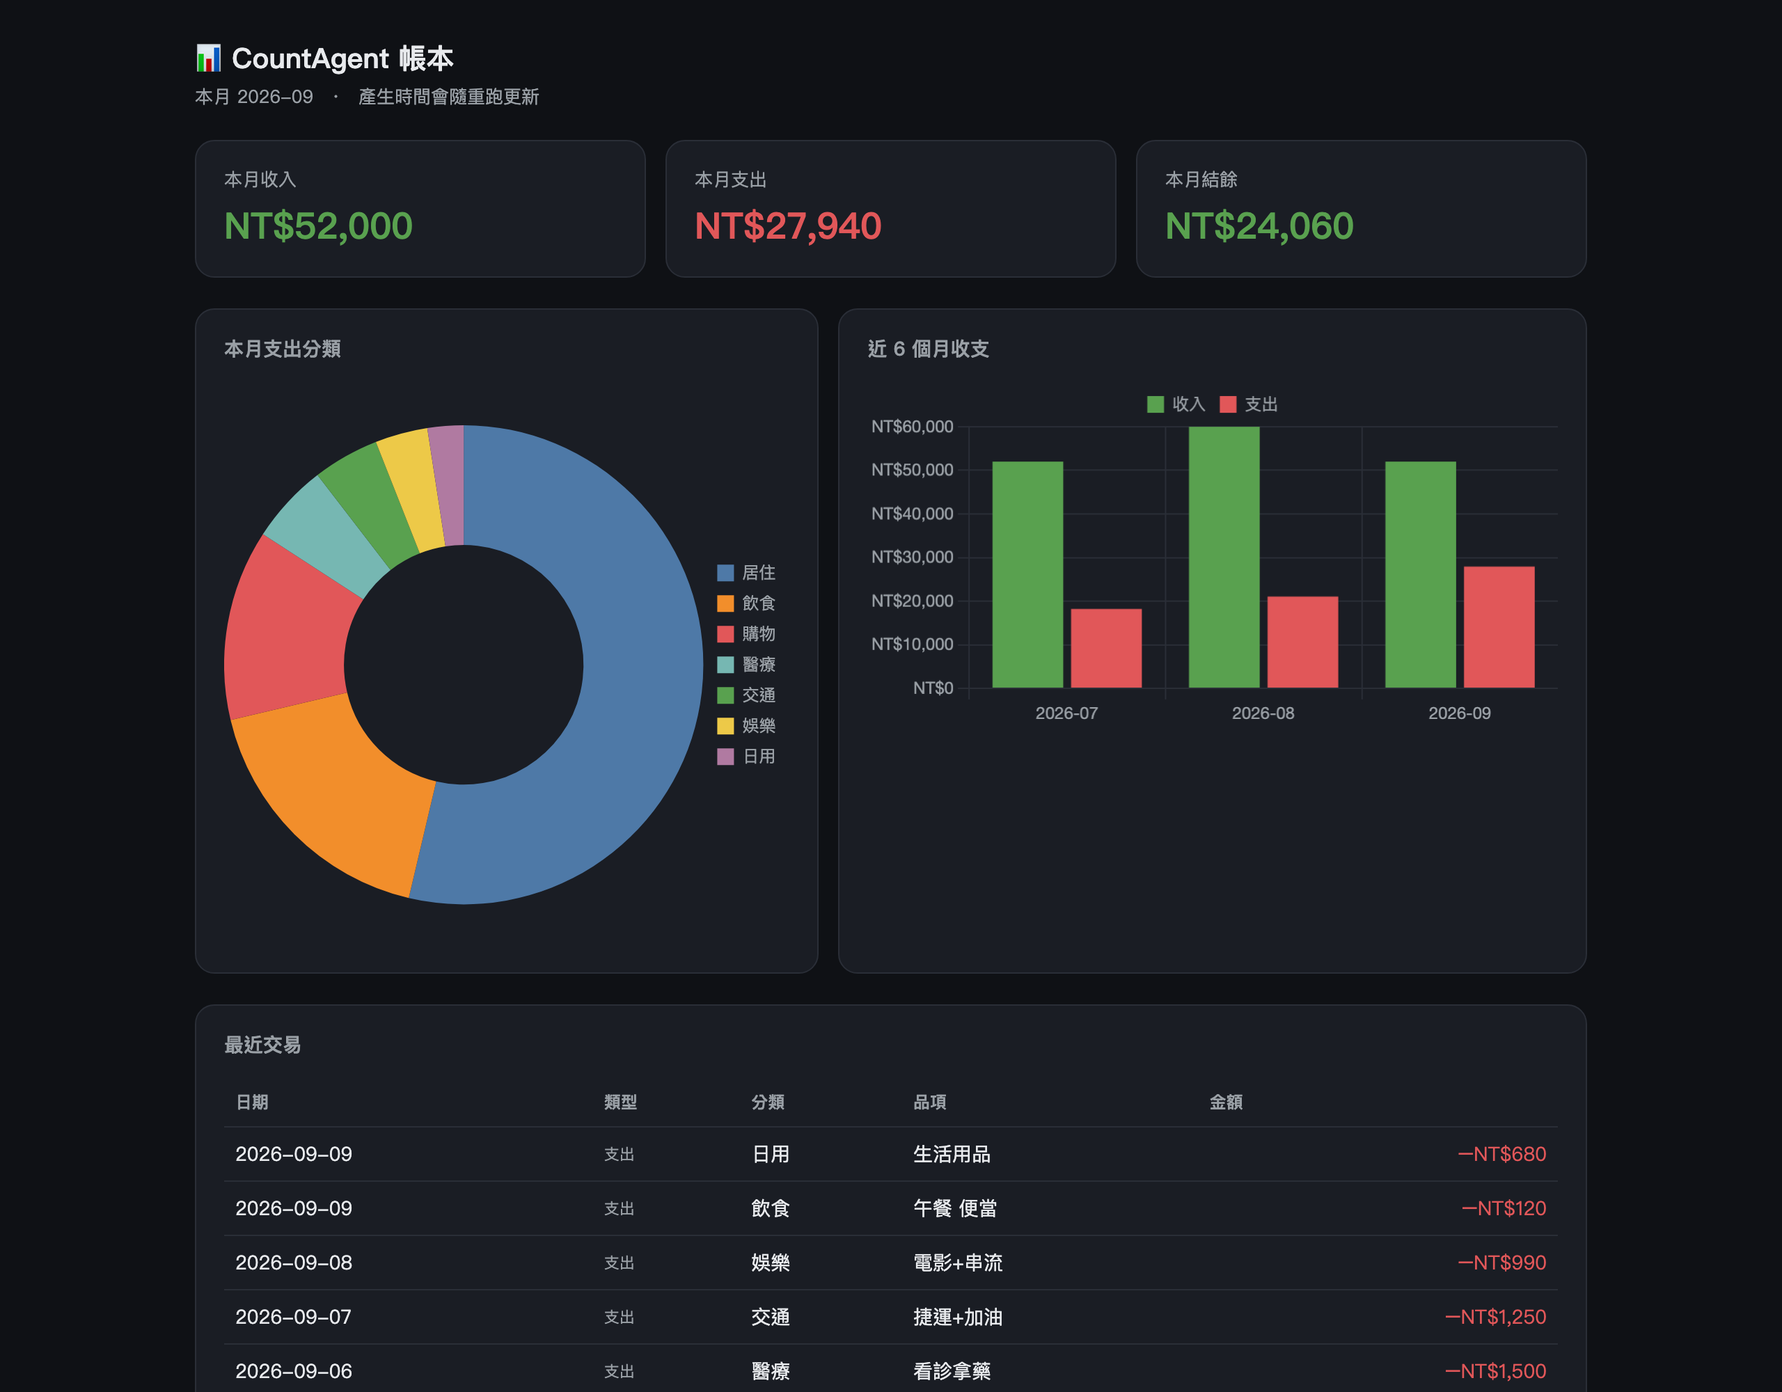
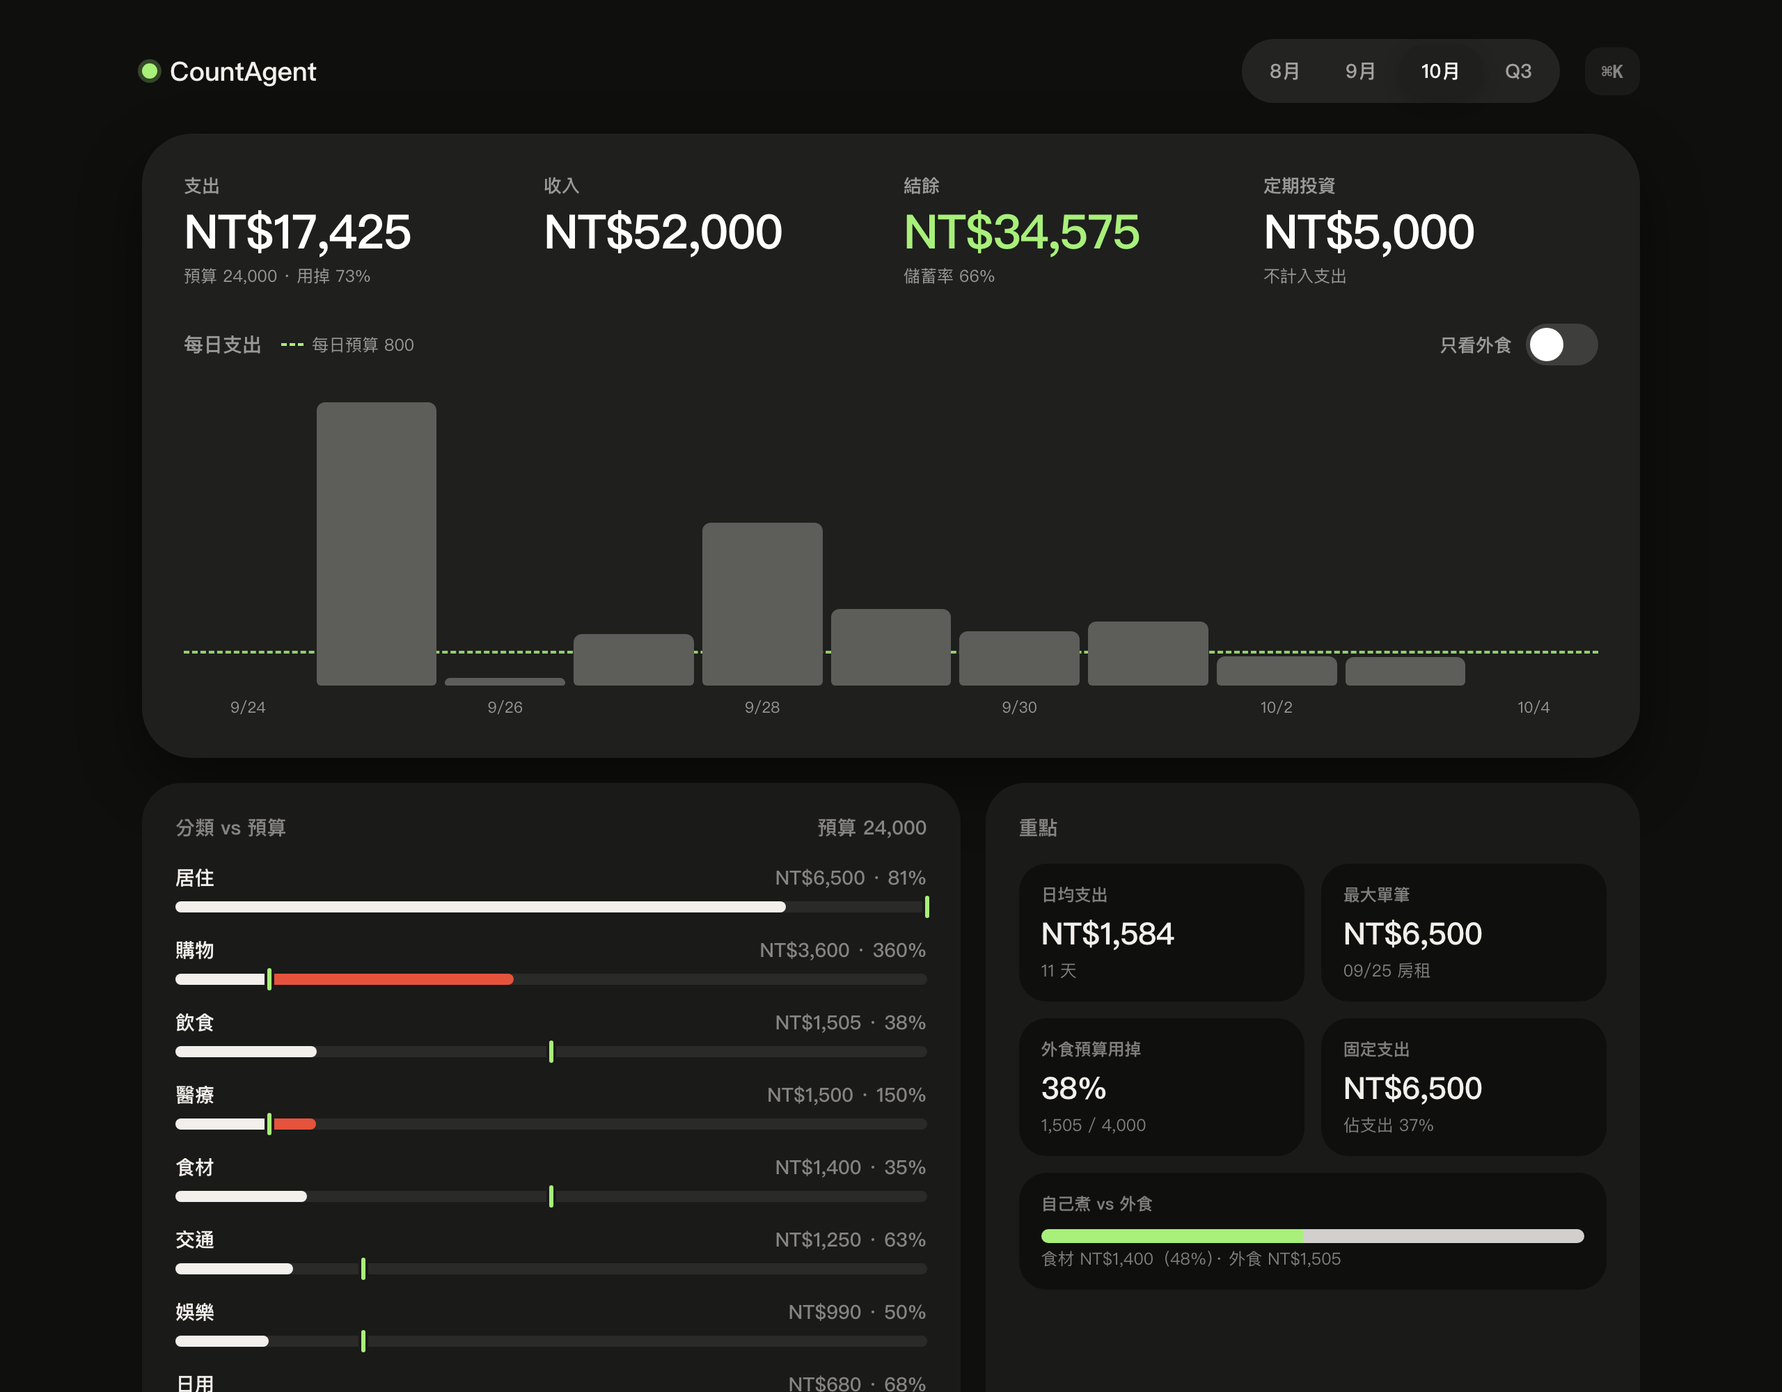
docs: README 更新帳期月與新版儀表板;demo 不再讀私人預算
- README 中英版:帳期月、二次去重、儀表板改為單檔離線,換新截圖
- dashboard --demo 只讀 budget.example.md,示範日期改照帳期排
- CLAUDE.md:個人收入關鍵字移到私人設定檔

diff --git a/scripts/dashboard.py b/scripts/dashboard.py
@@ -20,7 +20,7 @@ from datetime import date, timedelta
 from pathlib import Path
 
 sys.path.insert(0, str(Path(__file__).resolve().parent))
-from period import period_days, period_of, quarter_of  # noqa: E402
+from period import period_days, period_of, period_range, quarter_of  # noqa: E402
 
 ROOT = Path(__file__).resolve().parent.parent
 LEDGER = ROOT / "data" / "ledger.csv"
@@ -29,31 +29,34 @@ OUT = ROOT / "reports" / "dashboard.html"
 
 
 def _demo_date(months_ago: int, day: int) -> str:
-    """示範資料的日期要跟著今天走,不然 --demo 會隨時間愈來愈空。"""
+    """示範資料的日期要跟著今天走,不然 --demo 會隨時間愈來愈空。
+    day 是帳期內第幾天(1~28);當期只排到今天為止。"""
     today = date.today()
-    month = today.month - months_ago
-    year = today.year
-    while month <= 0:
-        month += 12
-        year -= 1
+    y, m = map(int, period_of(today).split("-"))
+    m -= months_ago
+    while m <= 0:
+        m += 12
+        y -= 1
+    start = period_range(f"{y:04d}-{m:02d}")[0]
+    offset = day - 1
     if months_ago == 0:
-        day = max(1, round(day * today.day / 28))
-    return f"{year:04d}-{month:02d}-{day:02d}"
+        offset = round(offset * (today - start).days / 27)
+    return (start + timedelta(days=offset)).isoformat()
 
 
 # 全部都是假資料,只為了展示儀表板長相。
 DEMO_ROWS = [
     {"date": _demo_date(2, 5), "type": "收入", "amount": "52000", "category": "薪資", "item": "月薪"},
-    {"date": _demo_date(2, 12), "type": "支出", "amount": "15000", "category": "居住", "item": "房租", "note": "固定"},
+    {"date": _demo_date(2, 12), "type": "支出", "amount": "6500", "category": "居住", "item": "房租", "note": "固定"},
     {"date": _demo_date(2, 20), "type": "支出", "amount": "3200", "category": "飲食", "item": "外食合計"},
     {"date": _demo_date(1, 5), "type": "收入", "amount": "52000", "category": "薪資", "item": "月薪"},
     {"date": _demo_date(1, 8), "type": "收入", "amount": "8000", "category": "副業", "item": "接案"},
-    {"date": _demo_date(1, 12), "type": "支出", "amount": "15000", "category": "居住", "item": "房租", "note": "固定"},
+    {"date": _demo_date(1, 12), "type": "支出", "amount": "6500", "category": "居住", "item": "房租", "note": "固定"},
     {"date": _demo_date(1, 15), "type": "支出", "amount": "4800", "category": "飲食", "item": "餐飲合計"},
     {"date": _demo_date(1, 18), "type": "支出", "amount": "1250", "category": "交通", "item": "捷運+加油"},
     {"date": _demo_date(1, 20), "type": "投資", "amount": "5000", "category": "投資", "item": "ETF 定期定額"},
     {"date": _demo_date(0, 3), "type": "收入", "amount": "52000", "category": "薪資", "item": "月薪"},
-    {"date": _demo_date(0, 5), "type": "支出", "amount": "15000", "category": "居住", "item": "房租", "note": "固定"},
+    {"date": _demo_date(0, 5), "type": "支出", "amount": "6500", "category": "居住", "item": "房租", "note": "固定"},
     {"date": _demo_date(0, 6), "type": "支出", "amount": "185", "category": "飲食", "item": "午餐"},
     {"date": _demo_date(0, 8), "type": "支出", "amount": "320", "category": "飲食", "item": "晚餐"},
     {"date": _demo_date(0, 9), "type": "支出", "amount": "860", "category": "食材", "item": "超市採買"},
@@ -80,9 +83,9 @@ def load_rows(demo: bool):
         return list(csv.DictReader(f))
 
 
-def load_budget():
-    """讀 data/budget.md(沒有就讀範本)的「每月分類預算」表格。"""
-    for p in BUDGET_FILES:
+def load_budget(demo: bool = False):
+    """讀 data/budget.md(沒有就讀範本)的「每月分類預算」表格。--demo 只讀範本,不碰私人預算。"""
+    for p in (BUDGET_FILES[1:] if demo else BUDGET_FILES):
         if not p.exists():
             continue
         cats, save, in_tbl = {}, 0.0, False
@@ -695,7 +698,7 @@ def main():
     ap.add_argument("--no-open", action="store_true", help="不自動開啟瀏覽器")
     args = ap.parse_args()
 
-    budget, save = load_budget()
+    budget, save = load_budget(args.demo)
     data = build(load_rows(args.demo), budget, save)
     OUT.parent.mkdir(parents=True, exist_ok=True)
     payload = json.dumps(data, ensure_ascii=False).replace("</", "<\\/")

diff --git a/README.md b/README.md
@@ -41,7 +41,7 @@ CountAgent splits capture from interpretation completely:
 
 **All the tedious judgement calls go to the agent.** Turning "late-night snack 97, yesterday" into a nine-column row means inferring the date (which day was "yesterday"), the type, the category (a snack counts as Food) and the payment method (unstated, so the default applies) — and then writing a short description. That is exactly where an LLM is strong and where a keyword-matching rule engine is most brittle — a keyword table never covers the way people actually talk.
 
-**And the rules are prose, not code.** The agent's entire behaviour is defined in [`CLAUDE.md`](CLAUDE.md): 164 lines, about 8.5 KB of Traditional Chinese. It covers how to infer a category, when to stop and ask instead of guessing, why an investment is neither income nor expense, and which suspicious categories to re-check after an invoice import. Translated, the rules read like this:
+**And the rules are prose, not code.** The agent's entire behaviour is defined in [`CLAUDE.md`](CLAUDE.md): 172 lines, about 9.4 KB of Traditional Chinese. It covers how to infer a category, when to stop and ask instead of guessing, why an investment is neither income nor expense, and which suspicious categories to re-check after an invoice import. Translated, the rules read like this:
 
 > If he doesn't say how he paid, default to credit card — he rarely uses cash. "Paid cash" means cash; LINE Pay, JKOPay or EasyWallet means mobile payment; a transfer, a remittance or a repayment means bank or transfer.
 
@@ -55,9 +55,10 @@ The practical difference: recording an expense goes from "open app → pick cate
 
 - **One-sentence capture** — an iOS Shortcut plus Siri appends one line to `inbox.txt` in iCloud. It works offline, and if you set the Shortcut up to prepend a timestamp, the agent uses that as the date.
 - **Semantic entry** — the agent reads the backlog line by line, infers the date, the type, the category and the payment method, writes a short description, and appends a nine-column row to the ledger.
-- **Duplicate protection** — iCloud sync can hand back lines that were already processed, so every raw line is kept in an archive file and compared verbatim; anything already seen is skipped.
+- **Duplicate protection** — iCloud sync can hand back lines that were already processed, so every raw line is kept in an archive file and compared verbatim; anything already seen is skipped. A second check catches the human version: the same amount for the same thing on the same day (two "lunch 90"s) is recorded once, and the agent asks whether it really was two meals.
 - **E-invoice import** — in Taiwan, purchases can be attached to a phone-barcode carrier and retrieved later. Two routes, one ledger: a CSV export from the carrier app (column names matched by keyword, comma or tab, Big5 and UTF-8 both decoded automatically) or the Ministry of Finance carrier API. Both deduplicate on invoice number.
-- **Reports** — a monthly summary, a quarterly statement (savings rate, budget vs actual, fixed vs variable spending) and an HTML dashboard.
+- **Billing-cycle months** — a "month" runs from the day after the credit card statement closes to the next closing day (24th to 23rd by default, set in `scripts/period.py`), so a budget month matches the bill you actually pay. Quarters are three billing cycles.
+- **Reports** — a monthly summary, a quarterly statement (savings rate, budget vs actual, fixed vs variable spending) and an interactive HTML dashboard: daily spending against the daily budget, category bars against their budgets, an eating-out-only toggle, a transactions table and a ⌘K command palette. One self-contained file, no libraries, works offline.
 - **Cooking cost tracking** — records how fast ingredients get used up, so I can compare what cooking actually costs per meal against what eating out costs.
 
 ## Quick start
@@ -101,8 +102,8 @@ The agent works in Traditional Chinese; the reply above is translated. It checks
 **Reports:**
 
 ```bash
-python3 scripts/report.py                 # this month, printed to the terminal
-python3 scripts/report.py 2026-08         # a specific month
+python3 scripts/report.py                 # current billing month, printed to the terminal
+python3 scripts/report.py 2026-08         # a specific billing month (Jul 24 – Aug 23)
 python3 scripts/quarterly.py              # this quarter
 python3 scripts/quarterly.py 2026Q3       # a specific quarter
 python3 scripts/quarterly.py 2026Q3 --md  # also saved to reports/2026-Q3.md
@@ -141,7 +142,7 @@ python3 scripts/fetch_invoices.py --days 30 --dry-run
 [store]    one row appended to data/ledger.csv (nine columns; history is never reordered)
                │  inbox emptied, raw lines moved into the archive
                ▼
-[report]   report.py     — month, prints to the terminal
+[report]   report.py     — billing month (24th–23rd, see period.py), prints to the terminal
            quarterly.py  — quarter, reads budget.md; --md also writes reports/<YYYY>-Q<N>.md
            dashboard.py  — writes reports/dashboard.html
 
@@ -167,7 +168,8 @@ CountAgent/
 ├── scripts/
 │   ├── report.py                # monthly summary
 │   ├── quarterly.py             # quarterly statement (reads budget.md)
-│   ├── dashboard.py             # HTML dashboard (Chart.js from a CDN)
+│   ├── dashboard.py             # HTML dashboard (single file, no libraries)
+│   ├── period.py                # billing-cycle months: past the closing day = next month
 │   ├── import_csv.py            # e-invoice CSV import
 │   ├── fetch_invoices.py        # Ministry of Finance carrier API
 │   └── categorize.py            # shop name → category, shared by both import paths
@@ -184,7 +186,6 @@ The real ledger, budget, profile and reports are all outside version control. A 
 - **One person, one machine.** It leans on iCloud file sync: no shared ledgers, no real-time multi-device sync. Sync lags, and it can hand back old lines — which is what the archive comparison is there for.
 - **Capture is tied to Apple.** Siri plus an iOS Shortcut writing to an iCloud file. On another platform you'd have to build your own "append one line to a file" capture, but that is genuinely all it is; the layer was designed to be that thin.
 - **The Ministry of Finance API needs an AppID**, and the application page is often down for maintenance, so CSV import is the route I actually use.
-- **The dashboard needs a network connection for its charts.** It pulls Chart.js from a CDN; offline you still get the KPI cards and the transactions table, just not the two charts.
 - **Fixed vs variable spending is manual.** The quarterly report counts a row as fixed only if its note contains the Chinese word 固定 ("fixed") — a literal keyword match in `quarterly.py` — so an unlabelled recurring bill shows up as variable.
 
 ## License

diff --git a/README.zh-TW.md b/README.zh-TW.md
@@ -55,7 +55,7 @@ CountAgent 反過來，把捕捉端和整理端徹底切開：
 這正好是 LLM 擅長、而傳統規則引擎最脆弱的地方——關鍵字表永遠寫不完使用者的講法。
 
 **而規則本身是自然語言，不是程式碼。**
-Agent 的完整行為定義寫在 [`CLAUDE.md`](CLAUDE.md)（164 行、約 8.5 KB 的中文散文）：
+Agent 的完整行為定義寫在 [`CLAUDE.md`](CLAUDE.md)（172 行、約 9.4 KB 的中文散文）：
 怎麼推斷分類、什麼情況該反問、投資為什麼不算支出、發票匯入後要主動複查哪些可疑分類。
 規則原文長這樣：
 
@@ -76,9 +76,10 @@ Agent 的完整行為定義寫在 [`CLAUDE.md`](CLAUDE.md)（164 行、約 8.5 K
 
 - **一句話捕捉** — iOS 捷徑 + Siri 語音把一句話寫進 iCloud 的 `inbox.txt`，離線可用；捷徑有加時間戳的話，agent 就拿它當日期
 - **語意解析建帳** — agent 逐行判讀，推斷日期、收支類型、分類、付款方式與品項，append 一列九欄的帳
-- **去重防呆** — iCloud 同步可能把已處理的舊行帶回來，以歸檔檔逐字比對後跳過
+- **去重防呆** — iCloud 同步可能把已處理的舊行帶回來，以歸檔檔逐字比對後跳過；同一天同金額、同品項（兩筆「午餐 90」）先只記一筆，再問是不是真的兩餐
 - **電子發票匯入** — 支援載具匯出的 CSV（欄名不拘、Big5/UTF-8 自動判讀、逗號或 tab 皆可）與財政部載具 API，用發票號碼去重
-- **多維報表** — 月報、季度財報（儲蓄率、預算 vs 實際、固定 vs 變動支出）、HTML 儀表板
+- **帳期月** — 「一個月」照信用卡結帳日切（預設上月 24 ~ 本月 23，在 `scripts/period.py` 改），預算月就對得上實際要繳的那期帳單；季＝三個帳期
+- **多維報表** — 月報、季度財報（儲蓄率、預算 vs 實際、固定 vs 變動支出）、互動 HTML 儀表板：每日支出對照每日預算、分類 vs 預算、只看外食、交易表、⌘K 指令面板。單一檔案、不載任何函式庫、離線可用
 - **自煮成本追蹤** — 記錄食材消耗速度，換算自煮與外食的真實單餐成本
 
 ## 快速開始
@@ -122,8 +123,8 @@ Agent 每次跟你開始對話，都會先看一眼 iCloud 收件匣；說一聲
 **報表指令**：
 
 ```bash
-python3 scripts/report.py                 # 本月月報（印在終端機）
-python3 scripts/report.py 2026-08         # 指定月份
+python3 scripts/report.py                 # 本期月報（印在終端機）
+python3 scripts/report.py 2026-08         # 指定帳期（7/24 ~ 8/23）
 python3 scripts/quarterly.py              # 本季財報
 python3 scripts/quarterly.py 2026Q3       # 指定季度
 python3 scripts/quarterly.py 2026Q3 --md  # 另存 reports/2026-Q3.md
@@ -165,7 +166,7 @@ python3 scripts/fetch_invoices.py --days 30 --dry-run
 [儲存] append 一列到 data/ledger.csv（九欄，永不重排歷史列）
               │  清空 inbox、原始行存進 archive
               ▼
-[報表] report.py      — 月報，印在終端機
+[報表] report.py      — 月報（帳期 24 ~ 23，見 period.py），印在終端機
        quarterly.py   — 季報，讀 budget.md；加 --md 才另存 reports/<YYYY>-Q<N>.md
        dashboard.py   — 產生 reports/dashboard.html
 
@@ -192,7 +193,8 @@ CountAgent/
 ├── scripts/
 │   ├── report.py                # 月報
 │   ├── quarterly.py             # 季度財報（讀 budget.md）
-│   ├── dashboard.py             # HTML 儀表板（Chart.js CDN）
+│   ├── dashboard.py             # HTML 儀表板（單一檔、不載函式庫）
+│   ├── period.py                # 帳期：過了結帳日就算下個月
 │   ├── import_csv.py            # 電子發票 CSV 匯入
 │   ├── fetch_invoices.py        # 財政部載具 API 抓取
 │   └── categorize.py            # 店名 → 分類的共用規則
@@ -211,7 +213,6 @@ CountAgent/
 - **單人單機**：靠 iCloud 檔案同步，沒有多人共帳、沒有多裝置即時同步。同步有延遲，也可能把舊行帶回來（靠歸檔比對去重處理）。
 - **捕捉端綁 Apple 生態**：Siri + iOS 捷徑寫 iCloud 檔案。換平台就得自己做一個「能附加一行字到某個檔案」的捕捉端——不過也就這樣而已，這層本來就設計得很薄。
 - **財政部 API 需要 AppID**，申請頁常在維護，所以目前主用 CSV 匯入那條路。
-- **儀表板的圖要連網才出得來**：Chart.js 是從 CDN 載的；離線時 KPI 卡與最近交易表照常顯示，只有那兩張圖是空的。
 - **固定 vs 變動要自己標**：季報是看 `note` 有沒有「固定」兩字，沒標到的固定支出會被算成變動。
 
 ## 授權

diff --git a/CLAUDE.md b/CLAUDE.md
@@ -73,7 +73,7 @@ CSV 規則:
    - `date` → 沒講就用今天。
    - `type` → 預設 `支出`;出現「薪水/收到/入帳/退款」等字眼判為 `收入`;
      出現「投資/定期定額/複委託/台股定期/DCA」等判為 `投資`(見下)。
-     **「小金雞」「SPY Gym」「from Mum」是媽媽匯進來的零用錢(收入),不是投資。**
+     **例外:哪些匯款備註其實是收入(看起來像投資名稱也一樣),列在 `data/sean_profile.md`,判斷前先看那份。**
    - `category` → 依 `categories.md` 自動歸類(午餐→飲食,捷運→交通,房租→居住…)。
    - `payment` → **沒講就預設 `信用卡`**(Sean 很少用現金);出現「付現/現金」才記 `現金`,
      「Line Pay/街口/悠遊付」→ `行動支付`,「轉帳/匯款/還款」→ `銀行` 或 `轉帳`。
@@ -99,7 +99,7 @@ Sean 2026-09 開始自己煮。記到 `食材` 分類時:
 ### 投資交易(type=投資)
 
 Sean 的定期定額投資(台股定期、複委託美股等,見 `data/sean_profile.md`)。
-- **只有存摺上實際扣款的才算投資。** 媽媽給的錢裡雖然含投資的部分,沒扣款就不記。
+- **只有存摺上實際扣款的才算投資。** 預算裡有投資的份,但沒扣款就不記。
 - `type=投資`、`category=投資`、`item` 記標的名稱、`payment` 通常 `銀行`。
 - **投資不算支出、不算收入**,report/quarterly 會單獨統計。
 - **金額每月浮動**(Sean 花多時會減碼),一律記**當期實際金額**,別套死基準值。
@@ -160,7 +160,7 @@ Sean 從載具 App / 電子發票平台匯出明細檔,丟給你後:
 ### 視覺化儀表板
 
 使用者想「看圖」時,跑 `python3 scripts/dashboard.py`,會讀 `ledger.csv` 產出
-`reports/dashboard.html`(KPI 卡、支出分類圓餅、近 6 月收支長條、最近交易表),並在 mac 自動開啟。
+`reports/dashboard.html`(單一檔、不連網:月/季切換、每日支出 vs 預算、分類 vs 預算、只看外食、交易表、⌘K),並在 mac 自動開啟。
 記完帳或匯入發票後,可主動幫他重跑一次更新畫面。`--demo` 用假資料、`--no-open` 不開瀏覽器。
 
 ---
